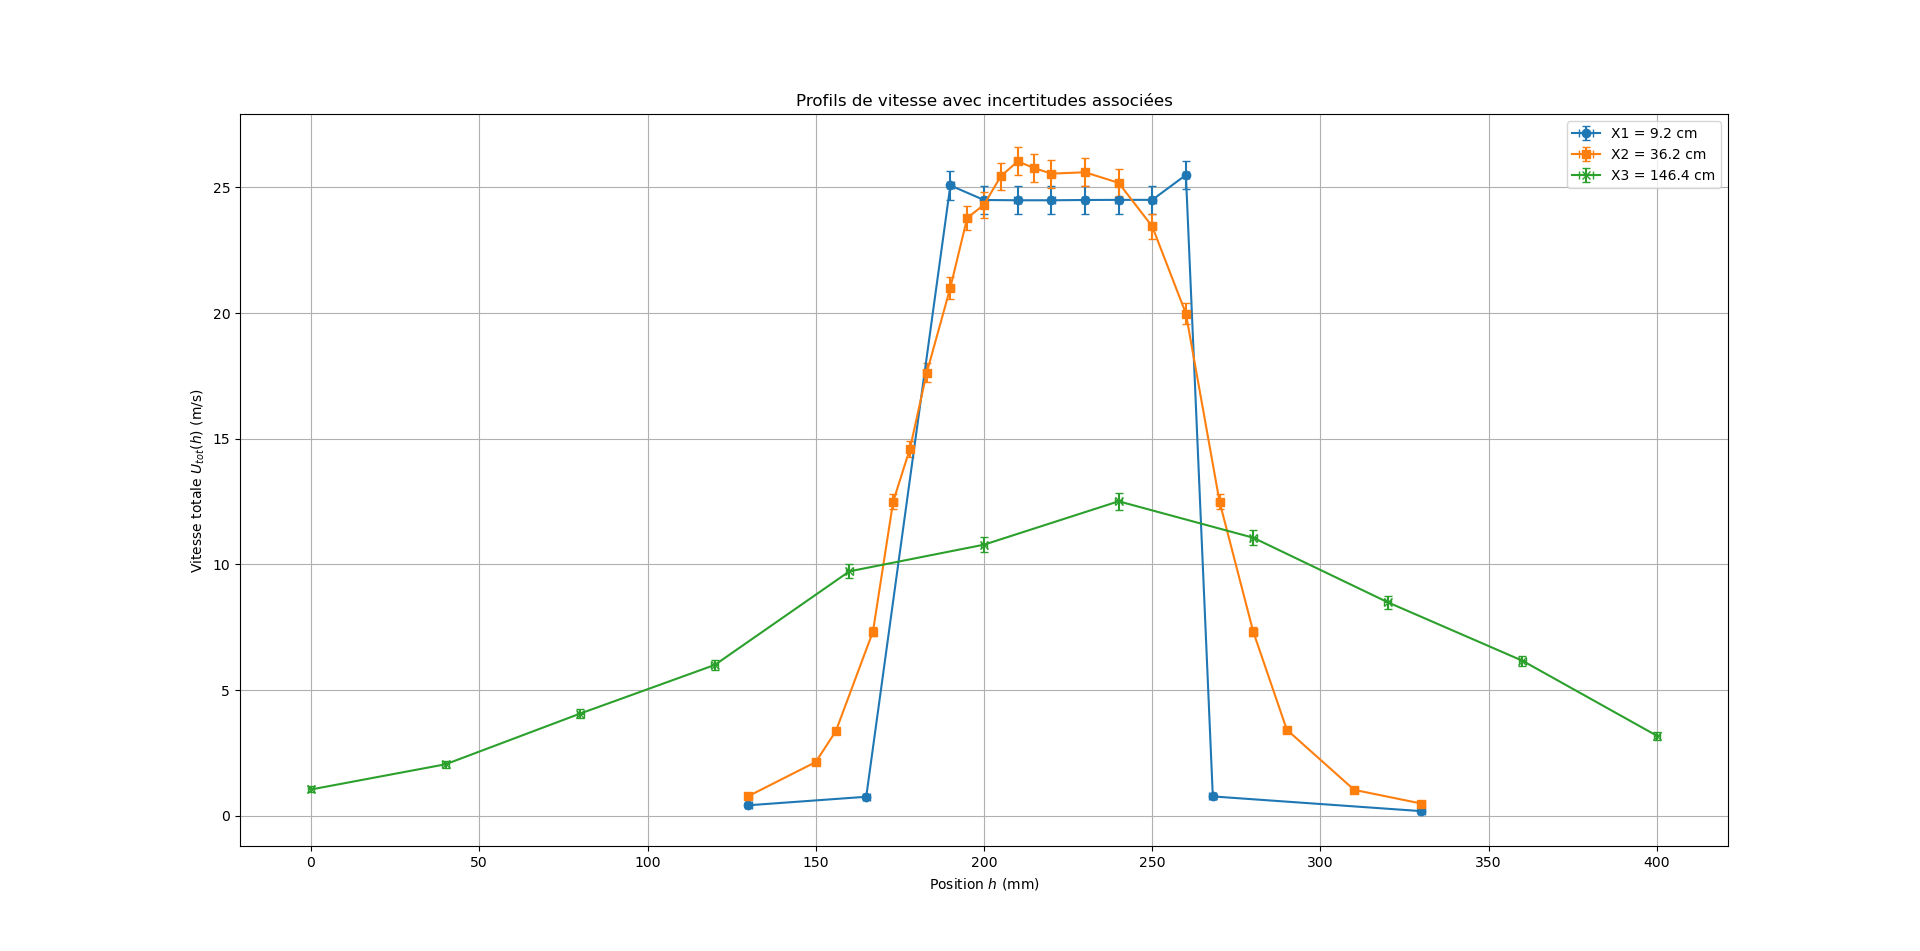
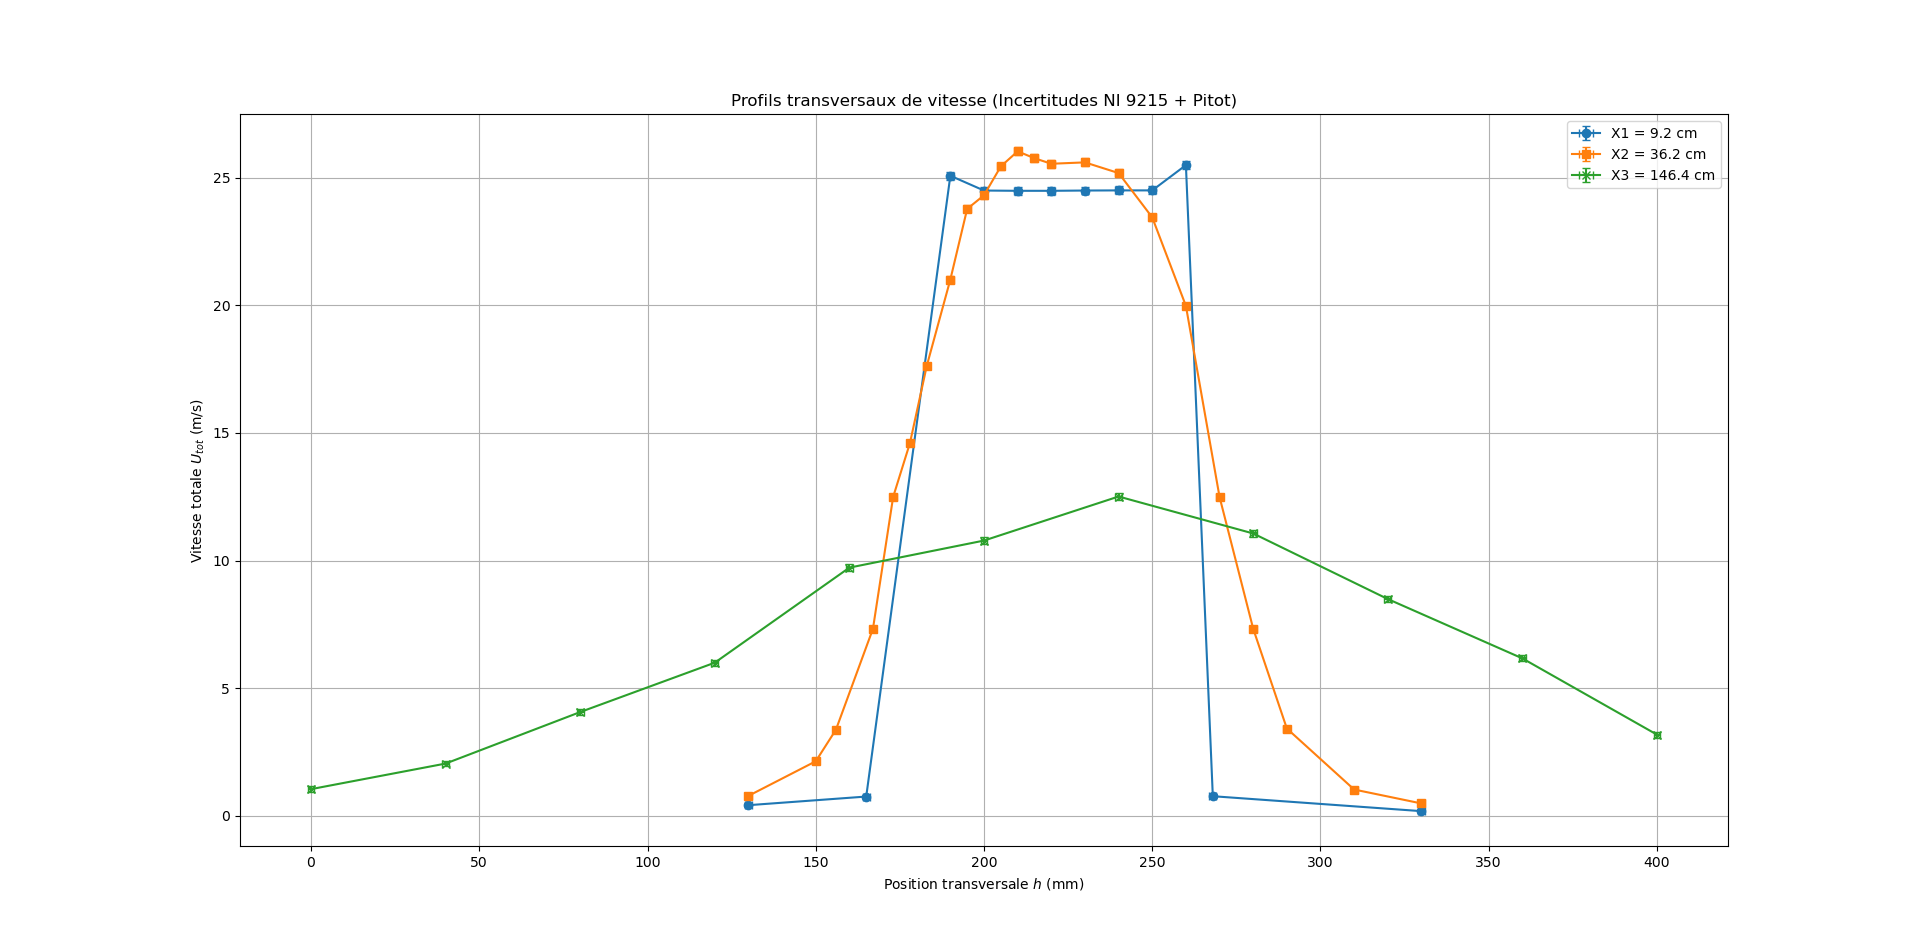
push final

diff --git a/Jets/tpfle2.py b/Jets/tpfle2.py
@@ -1,128 +1,182 @@
 import numpy as np
 import matplotlib.pyplot as plt
 
+# ==========================================
+# 0. PARAMÈTRES PHYSIQUES ET INSTRUMENTAUX
+# ==========================================
 rho = 1.14
 g = 9.81
 
-# --- Fonctions pour l'incertitude ---
+# --- Spécifications Constructeurs (Incertitudes) ---
+# 1. Carte NI 9215
+NI_GAIN = 0.0002        # 0.02%
+NI_RANGE = 10.4         # 10.4 V
+NI_OFFSET_ERR = 0.00014 
+NI_CONST_ERR = NI_RANGE * NI_OFFSET_ERR # ≈ 1.456 mV
+
+# 2. Pitot FCO318
+PITOT_REL_ERR = 0.0025 # 0.25% sur la Pression
+
+# --- Fonctions de calcul d'incertitude ---
+
+def get_voltage_uncertainty_NI(V_val):
+    """Calcule l'incertitude absolue sur une tension (NI 9215)."""
+    # Formule : Gain * Lecture + Gamme * Offset
+    return np.abs(V_val) * NI_GAIN + NI_CONST_ERR
+
+def get_pitot_uncertainty_velocity(U_val):
+    """Calcule l'incertitude sur la vitesse de référence (Pitot)."""
+    # dU/U = 0.5 * dP/P = 0.5 * 0.25% = 0.125%
+    return U_val * (0.5 * PITOT_REL_ERR)
+
 def get_calibration_error(E_calib, U_calib, func_U_from_E):
-    """Calcule l'erreur type (RMSE) de la calibration."""
+    """
+    Calcule l'incertitude globale du modèle d'étalonnage (Sigma_modèle).
+    Combine RMSE (résidus) + Incertitude systématique du Pitot.
+    """
+    # 1. Erreur statistique du modèle (RMSE)
     U_model = func_U_from_E(np.array(E_calib))
     residuals = np.array(U_calib) - U_model
-    return np.std(residuals)
+    rmse = np.std(residuals)
+    
+    # 2. Erreur systématique moyenne du Pitot sur la plage
+    u_pitot_mean = np.mean(get_pitot_uncertainty_velocity(np.array(U_calib)))
+    
+    # Combinaison quadratique
+    return np.sqrt(rmse**2 + u_pitot_mean**2)
 
-def calculate_uncertainty(Em_vals, Erms_vals, func_dU_dE, sigma_calib, delta_Em=0.01, delta_Erms=0.002):
-    """Calcule l'incertitude totale sur Utot (m/s)."""
+def calculate_uncertainty(Em_vals, Erms_vals, func_dU_dE, sigma_calib):
+    """
+    Calcule l'incertitude totale sur Utot (m/s).
+    Prend en compte : Modèle + Pitot + Carte NI (Moyenne & RMS)
+    """
     Em = np.array(Em_vals)
+    Erms = np.array(Erms_vals)
     sensitivity = np.abs(func_dU_dE(Em))
     
-    # 1. Incertitude sur la vitesse moyenne Um
-    u_Um = np.sqrt(sigma_calib**2 + (sensitivity * delta_Em)**2)
+    # 1. Incertitude sur les tensions (Instrument)
+    u_Em_volt = get_voltage_uncertainty_NI(Em)
+    u_Erms_volt = get_voltage_uncertainty_NI(Erms)
     
-    # 2. Incertitude sur la fluctuation U'rms
-    u_Uprime = sensitivity * delta_Erms
+    # 2. Propagation sur la vitesse moyenne Um
+    # On combine l'erreur du modèle (sigma_calib) et l'erreur de lecture (sensibilité * u_volt)
+    u_Um = np.sqrt(sigma_calib**2 + (sensitivity * u_Em_volt)**2)
     
-    # 3. Incertitude totale
+    # 3. Propagation sur la fluctuation U'rms
+    u_Uprime = sensitivity * u_Erms_volt
+    
+    # 4. Incertitude totale (somme quadratique)
     return np.sqrt(u_Um**2 + u_Uprime**2)
 
 # ==========================================
-# 1. CALIBRATIONS
+# 1. CALIBRATIONS (FIT & ERREURS)
 # ==========================================
 
-# --- Calib 1 (X1, X2) ---
+# --- Calib 1 (Pour X1, X2) ---
 Lmm1 = [0, 0.1, 0.2, 0.3, 0.4, 0.5, 0.7, 0.9, 1.1, 1.4, 1.6, 3, 4.1, 6.5, 9.3, 24]
 P1 = [g * e for e in Lmm1]
 U1 = [(2 * e / rho) ** 0.5 for e in P1]
 E1 = [1.38, 1.82, 1.86, 1.92, 1.96, 1.97, 2.01, 2.06, 2.08, 2.11, 2.13, 2.22, 2.27, 2.35, 2.41, 2.6]
+
 a1, b1, c1, d1 = np.polyfit(E1, U1, 3)
 def U_from_E1(E): return a1*E**3 + b1*E**2 + c1*E + d1
 def dU_dE1(E): return 3*a1*E**2 + 2*b1*E + c1
-sigma_calib1 = get_calibration_error(E1, U1, U_from_E1)
 
-# --- Calib 2 (X3) ---
+# Calcul de l'incertitude modèle 1
+sigma_calib1 = get_calibration_error(E1, U1, U_from_E1)
+print(f"Sigma Global Calib 1 (Modèle + Pitot) : {sigma_calib1:.3f} m/s")
+
+# --- Calib 2 (Pour X3 et Profil Axial) ---
 E_calib3 = np.array([1.38, 1.82, 1.88, 1.92, 1.96, 1.99, 2.02, 2.05, 2.07, 2.1, 2.13, 2.16, 2.20, 2.23, 2.25, 2.31, 2.36, 2.47, 2.54, 2.59])
 Lmm3 = np.array([0, 0.2, 0.3, 0.5, 0.7, 0.9, 1.2, 1.5, 1.8, 2.3, 2.8, 3.3, 4.2, 5, 6, 8.3, 10.9, 19.8, 28.4, 36.3])
 P3 = g * Lmm3
 U_calib3 = np.sqrt(2 * P3 / rho)
+
 a3, b3, c3, d3 = np.polyfit(E_calib3, U_calib3, 3)
 def U_from_E3(E): return a3*E**3 + b3*E**2 + c3*E + d3
 def dU_dE3(E): return 3*a3*E**2 + 2*b3*E + c3
+
+# Calcul de l'incertitude modèle 3
 sigma_calib3 = get_calibration_error(E_calib3, U_calib3, U_from_E3)
+print(f"Sigma Global Calib 3 (Modèle + Pitot) : {sigma_calib3:.3f} m/s")
+
 
 # ==========================================
-# 2. TRAITEMENT DES DONNÉES
+# 2. TRAITEMENT DES PROFILS (h)
 # ==========================================
-# --- X1 ---
+
+# --- Données X1 ---
 h1 = np.array([330, 268, 260, 250, 240, 230, 220, 210, 200, 190, 165, 130])
 Erms1 = np.array([12, 10, 20, 1.7, 1.7, 1.6, 1.4, 1.4, 1.6, 2.2, 7, 15]) * 1e-3
 Em1 = np.array([1.5, 1.7, 2.68, 2.68, 2.68, 2.68, 2.68, 2.68, 2.68, 2.69, 1.7, 1.6])
+
 Utot1 = U_from_E1(Em1) + dU_dE1(Em1) * Erms1
 err1 = calculate_uncertainty(Em1, Erms1, dU_dE1, sigma_calib1)
 
-# --- X2 ---
+# --- Données X2 ---
 h2 = np.array([130, 150, 156, 167, 173, 178, 183, 190, 195, 200, 205, 210, 215, 220, 230, 240, 250, 260, 270, 280, 290, 310, 330])
 Erms2 = np.array([60e-3, 0.13, 0.15, 0.15, 0.12, 0.13, 0.11, 90e-3, 72e-3, 50e-3, 40e-3, 30e-3, 25e-3, 21e-3, 22e-3, 35e-3, 65e-3, 0.1, 0.12, 0.15, 0.14, 70e-3, 40e-3])
 Em2 = np.array([1.66, 1.8, 1.89, 2.1, 2.3, 2.35, 2.44, 2.53, 2.6, 2.63, 2.66, 2.68, 2.68, 2.68, 2.68, 2.66, 2.6, 2.5, 2.3, 2.1, 1.9, 1.7, 1.6])
+
 Utot2 = U_from_E1(Em2) + dU_dE1(Em2) * Erms2
 err2 = calculate_uncertainty(Em2, Erms2, dU_dE1, sigma_calib1)
 
-# --- X3 ---
+# --- Données X3 ---
 h3 = np.array([400, 360, 320, 280, 240, 200, 160, 120, 80, 40, 0])
 Erms3 = np.array([0.1, 0.12, 0.11, 90e-3, 80e-3, 80e-3, 0.1, 0.11, 0.11, 0.11, 80e-3])
 Em3 = np.array([1.85, 2, 2.1, 2.2, 2.25, 2.2, 2.15, 2, 1.9, 1.75, 1.65])
+
 Utot3 = U_from_E3(Em3) + dU_dE3(Em3) * Erms3
 err3 = calculate_uncertainty(Em3, Erms3, dU_dE3, sigma_calib3)
 
 
-# --- 3. TRAITEMENT DU JEU DE DONNÉES AXIAL ---
-X = np.array([10, 25, 35, 50, 65, 80, 95, 110, 125, 140]) # Position
+# ==========================================
+# 3. TRAITEMENT PROFIL AXIAL (x)
+# ==========================================
+X_ax = np.array([10, 25, 35, 50, 65, 80, 95, 110, 125, 140]) # Position
 Erms_hfixe = np.array([1.4e-3, 10e-3, 20e-3, 50e-3, 80e-3, 85e-3, 90e-3, 90e-3, 90e-3, 90e-3])
 Em_hfixe = np.array([2.6, 2.59, 2.59, 2.56, 2.52, 2.45, 2.39, 2.3, 2.25, 2.22])
 
-# Calcul des vitesses
-Um_val = U_from_E3(Em_hfixe)
-Uprime_val = dU_dE3(Em_hfixe) * Erms_hfixe
-Utot_hfixe = Um_val + Uprime_val
+# Calcul (Utilise la Calib 3 car les valeurs montent à 2.6V, cohérent avec calib3)
+Utot_hfixe = U_from_E3(Em_hfixe) + dU_dE3(Em_hfixe) * Erms_hfixe
+err_Utot_ax = calculate_uncertainty(Em_hfixe, Erms_hfixe, dU_dE3, sigma_calib3)
 
-# Calcul des incertitudes verticales (sur U)
-err_Utot = calculate_uncertainty(Em_hfixe, Erms_hfixe, dU_dE3, sigma_calib3)
 
-# --- 4. TRACÉ ---
-delta_x = 1.0 # Incertitude sur la position X en mm (ou cm selon l'unité de X)
+# ==========================================
+# 4. TRACÉS
+# ==========================================
+
+# --- Figure 1 : Profil Axial ---
+delta_x = 1.0 # Incertitude position (mm)
 
 plt.figure(figsize=(9, 6))
-
-plt.errorbar(X, Utot_hfixe, 
+plt.errorbar(X_ax, Utot_hfixe, 
              xerr=delta_x, 
-             yerr=err_Utot, 
+             yerr=err_Utot_ax, 
              fmt='-o', 
              color='purple',
              ecolor='gray',
              capsize=3, 
-             label='Profil à h = 220 mm')
+             label='Profil Axial (h=220mm)')
 
-plt.xlabel("Position $x$ (cm)")
+plt.xlabel("Position $x$ (mm)") # Vérifiez si vos données X sont en cm ou mm
 plt.ylabel("Vitesse totale $U_{tot}$ (m/s)")
-plt.title(r"Évolution de $U_{tot}(x)$ à hauteur fixe avec incertitudes")
+plt.title(r"Évolution de $U_{tot}(x)$ le long de l'axe (avec incertitudes)")
 plt.legend()
 plt.grid(True)
 plt.show()
 
-# ==========================================
-# 3. TRACÉ AVEC DOUBLE INCERTITUDE
-# ==========================================
-delta_h = 1.0 # mm
+# --- Figure 2 : Profils Transversaux ---
+delta_h = 1.0 # Incertitude position (mm)
 
 plt.figure(figsize=(10, 7))
-
-# On ajoute xerr=delta_h pour avoir les barres horizontales
 plt.errorbar(h1, Utot1, xerr=delta_h, yerr=err1, fmt='o-', label='X1 = 9.2 cm', capsize=3)
 plt.errorbar(h2, Utot2, xerr=delta_h, yerr=err2, fmt='s-', label='X2 = 36.2 cm', capsize=3)
 plt.errorbar(h3, Utot3, xerr=delta_h, yerr=err3, fmt='x-', label='X3 = 146.4 cm', capsize=3)
 
-plt.xlabel("Position $h$ (mm)")
-plt.ylabel("Vitesse totale $U_{tot}(h)$ (m/s)")
-plt.title(f"Profils de vitesse avec incertitudes associées")
+plt.xlabel("Position transversale $h$ (mm)")
+plt.ylabel("Vitesse totale $U_{tot}$ (m/s)")
+plt.title(f"Profils transversaux de vitesse (Incertitudes NI 9215 + Pitot)")
 plt.legend()
 plt.grid(True)
 plt.show()
